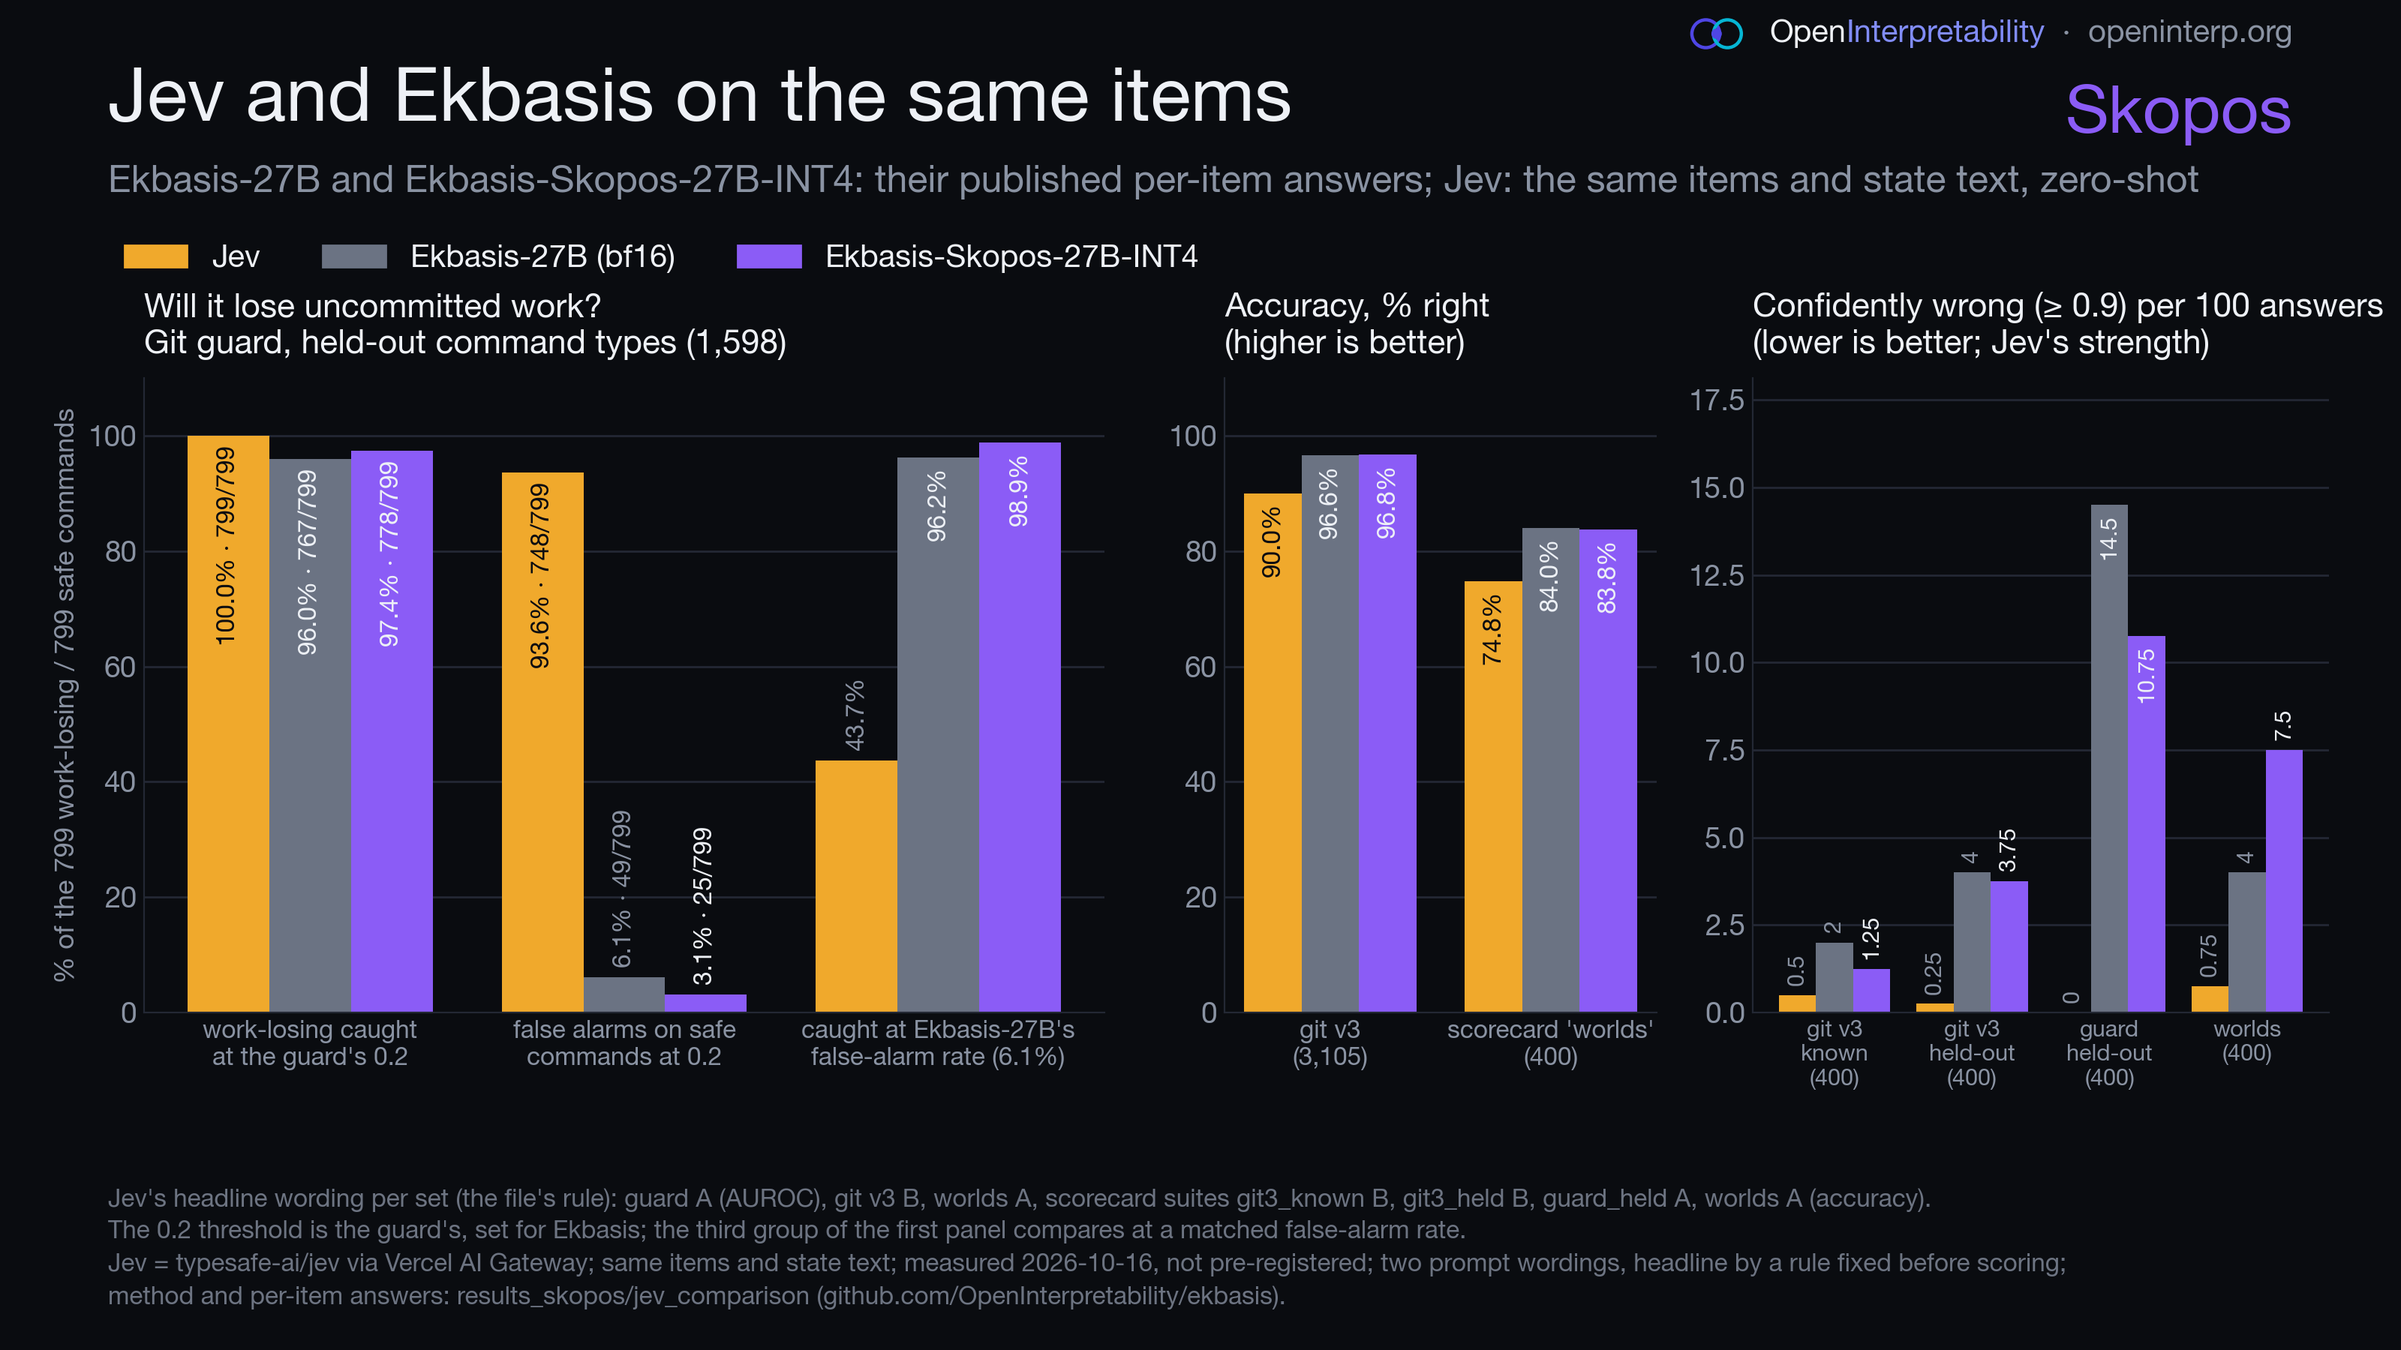
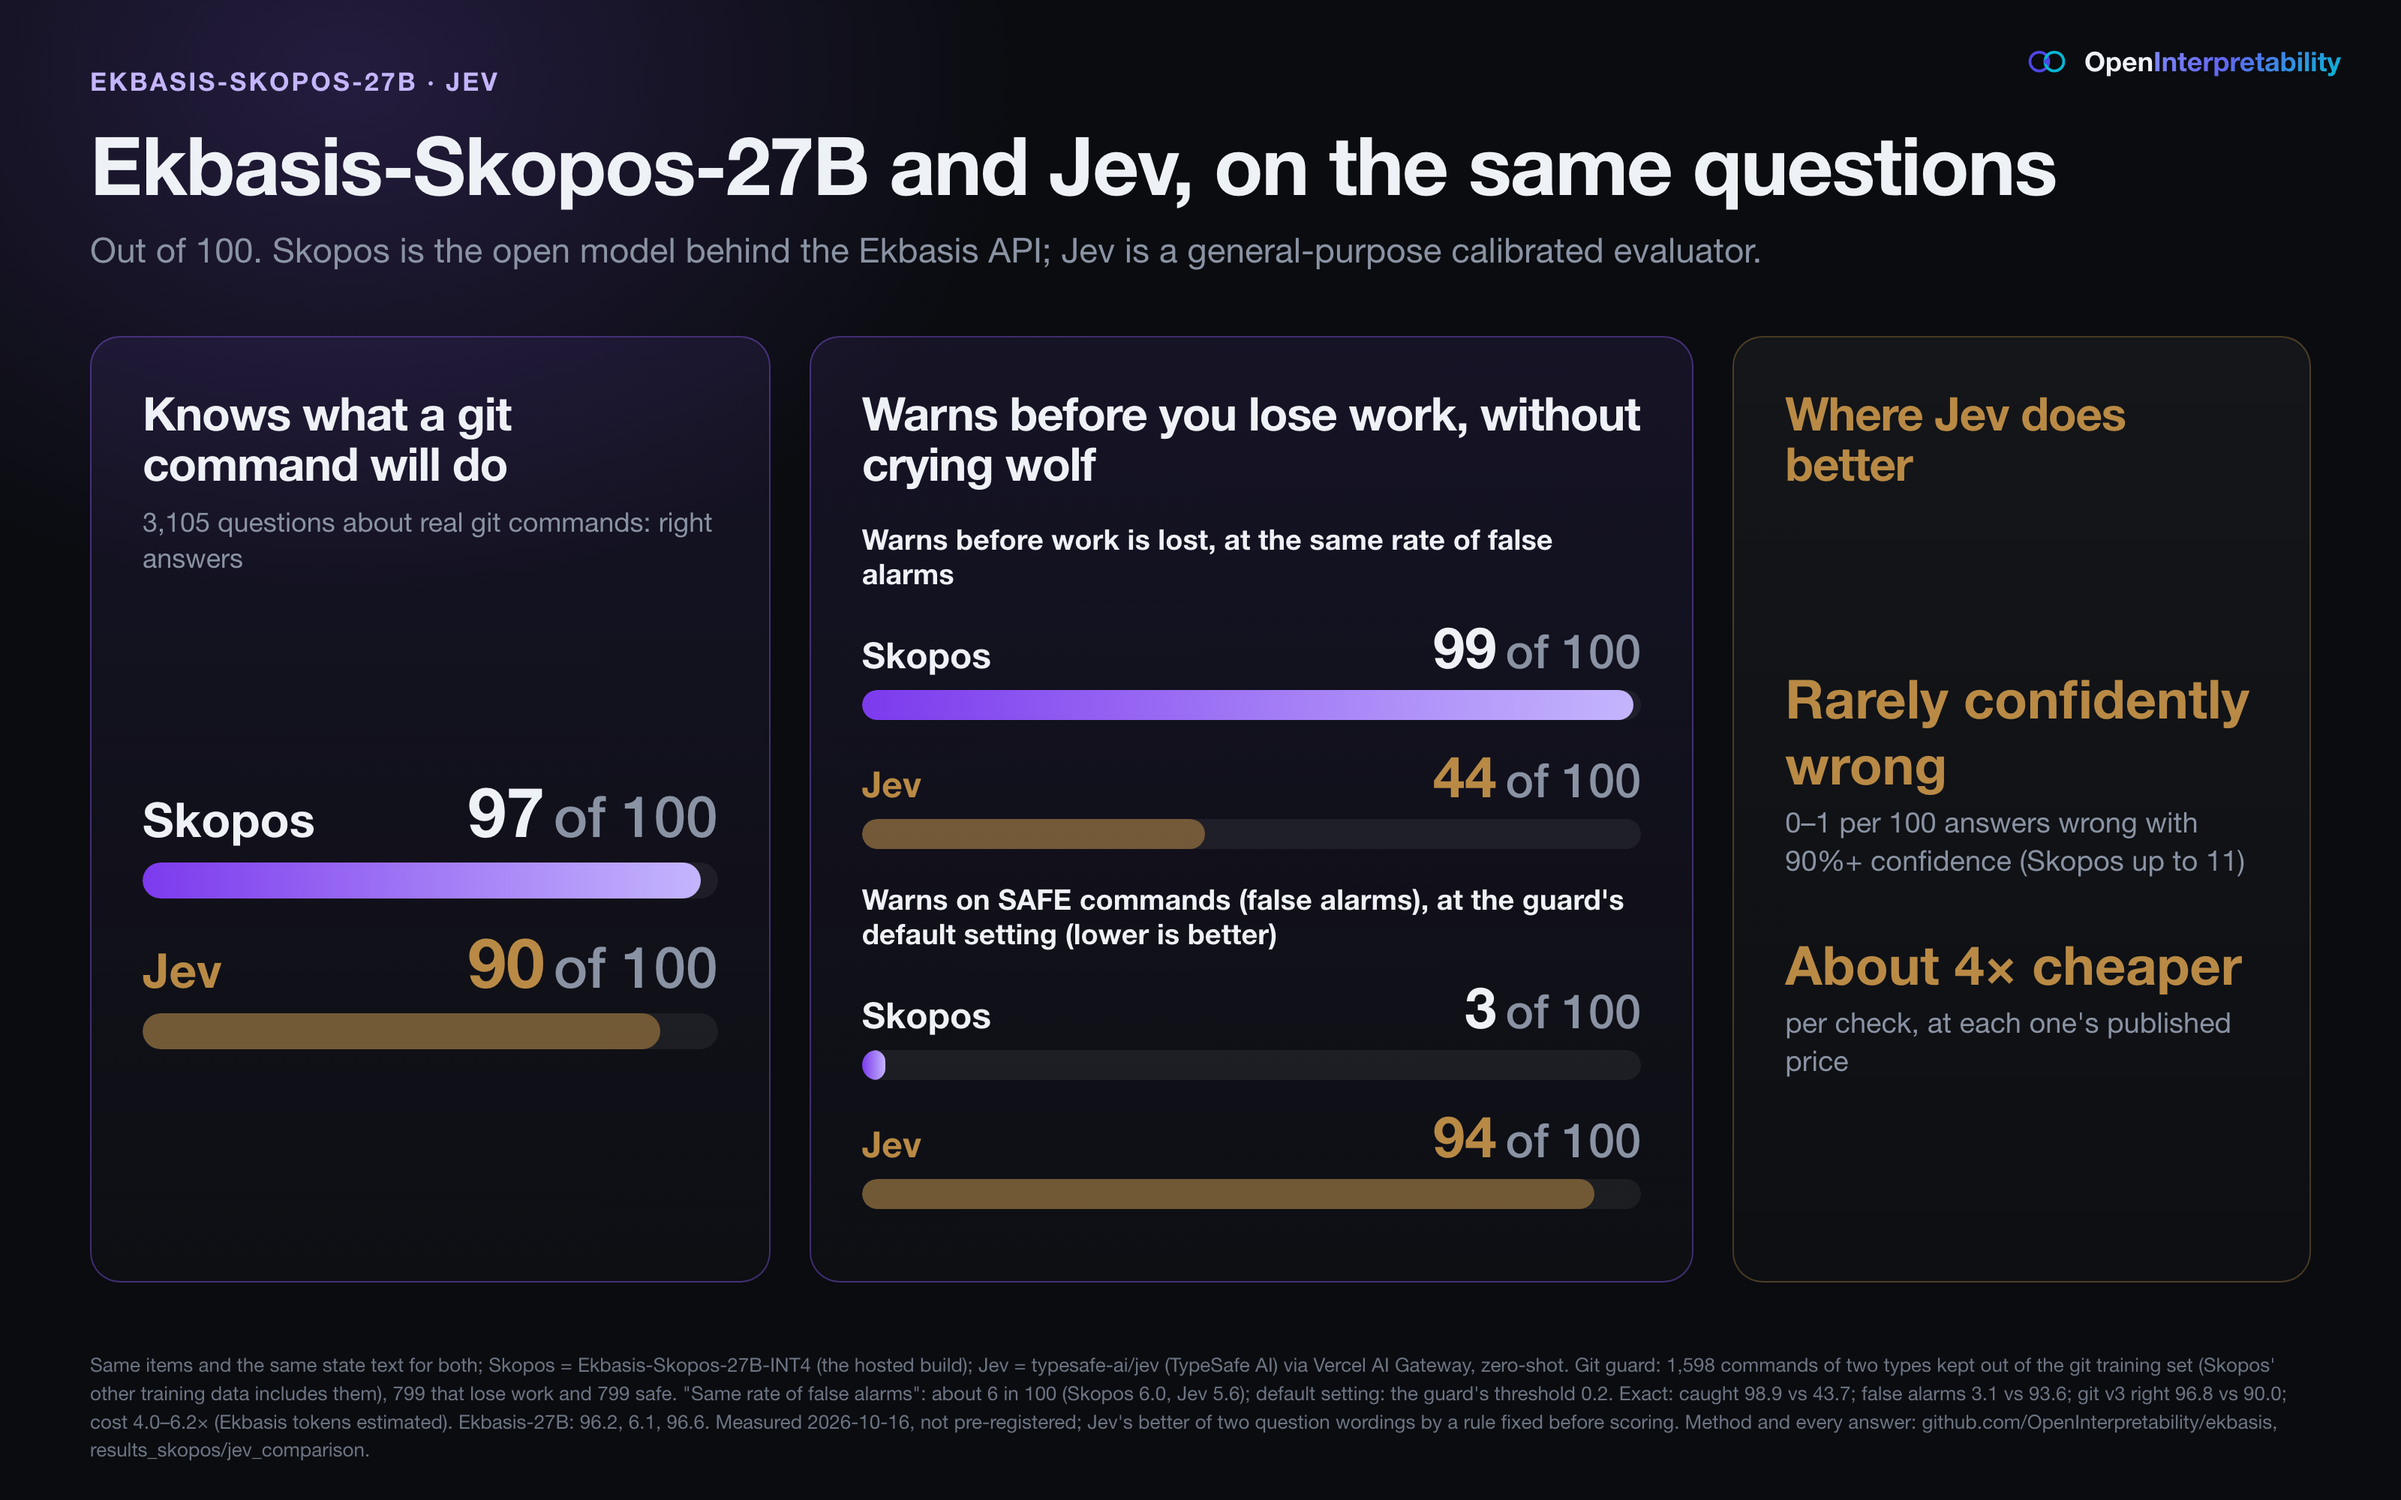
Skopos page: A7 result (calibrated cuts never-trained confident errors by about two-thirds; calibrated vs calibrated Skopos still +0.52 per 100) and the clearer Jev chart

diff --git a/lib/skopos-data.ts b/lib/skopos-data.ts
@@ -1,5 +1,5 @@
 /** Ekbasis-Skopos-27B launch data — GENERATED by release_skopos/site/gen_skopos_site.py from the model card's
- *  values (card_values.json, card sha256 286637d14c9c…, generated 2026-10-16T14:35:49+00:00). Do not edit by hand. */
+ *  values (card_values.json, card sha256 a4e6e6b00025…, generated 2026-10-16T15:28:24+00:00). Do not edit by hand. */
 
 export const skopos = {
   "name": "Ekbasis-Skopos-27B",
@@ -473,7 +473,7 @@ export const scorecard = {
     ]
   ],
   "neverTrained": {
-    "caption": "The regression a hosted user should know about — never-trained world families of the published confident-errors study: wrong at confidence ≥ 0.9 per 100, measured on the bf16 (served), not INT4: Skopos 4.49 against Ekbasis-27B 3.75 on 5,364 items (+0.75 [+0.28, +1.23]; on the 2,700 answers the actions change +1.19 [+0.52, +1.89]); ECE 0.071 against 0.063 (+0.009 [+0.003, +0.015]). Measured on the bf16 builds; the INT4 builds' values replace these when measured."
+    "caption": "The regression a hosted user should know about — never-trained world families of the published confident-errors study: wrong at confidence ≥ 0.9 per 100, measured on the INT4 (served), both builds (PREREG_ADDENDUM A7): raw answers, Skopos 4.75 against Ekbasis-27B 3.65 on 5,364 items (+1.10 [+0.65, +1.57]). Reading the calibrated field (T 1.67 and 1.55) cuts them to 1.62 and 1.10: Skopos calibrated is below Ekbasis-27B raw, and calibrated against calibrated Skopos still has +0.52 per 100 [+0.26, +0.78]; calibrated ECE is level (0.021 against 0.022). A7 on bf16 not run (the evaluation machine was retired)."
   },
   "calCaption": "Confident errors and calibration on 2,482 items, served through the System One API, both INT4 (from generators Skopos was trained on: its home ground).",
   "calColumns": [
@@ -540,7 +540,7 @@ export const scorecard = {
 
 export const skoposLimits = [
   "Everything in Ekbasis-27B's limits applies, including confident errors in the world families it was trained on.",
-  "More confident errors in unfamiliar worlds: on the 5,364 items of never-trained world families of the published confident-errors set (served bf16), Skopos is wrong slightly less often than Ekbasis-27B (14.26% against 14.93%), but more often with confidence 0.9 or more: 4.49 against 3.75 wrong answers per 100 (+0.75 [+0.28, +1.23]; on the answers the actions change +1.19 [+0.52, +1.89]), and it is worse calibrated there (ECE 0.071 against 0.063, +0.009 [+0.003, +0.015]). The selection of this version had no criterion on confident errors in these families (Training). In unfamiliar domains, let it look when unsure (simulate) and act on a confident answer only at a stricter threshold than in familiar ones; whether the calibrated field reduces these errors there has not been measured.",
+  "More confident errors in unfamiliar worlds: on the 5,364 items of never-trained world families of the published confident-errors set (served bf16), Skopos is wrong slightly less often than Ekbasis-27B (14.26% against 14.93%), but more often with confidence 0.9 or more: 4.49 against 3.75 wrong answers per 100 (+0.75 [+0.28, +1.23]; on the answers the actions change +1.19 [+0.52, +1.89]), and it is worse calibrated there (ECE 0.071 against 0.063, +0.009 [+0.003, +0.015]). The selection of this version had no criterion on confident errors in these families (Training). In unfamiliar domains, let it look when unsure (simulate) and act on a confident answer only at a stricter threshold than in familiar ones. In never-trained world families, reading calibrated cuts Skopos' confidently wrong answers by about two-thirds (INT4: 4.75 → 1.62 per 100), to fewer than Ekbasis-27B's raw answers (3.65). Calibrated against calibrated, Skopos still has about 0.5 more per 100 answers there than Ekbasis-27B (1.62 vs 1.10, +0.52 [+0.26, +0.78]); ECE is level (0.021 vs 0.022). Measured on the INT4 builds as PREREG_ADDENDUM.md A7 pre-registered; A7 on bf16 was not run (the evaluation machine was retired).",
   "Paraphrased wording (pre-launch P8): on 120 short checks in paraphrased wording, Skopos is right on 113 against Ekbasis-27B's 117 (−3.3 points [−6.7, −0.8]; exact McNemar p = 0.125), 2 of the 4 items it alone gets wrong in a never-trained family: the release blocker declared in the Pre-launch evaluation.",
   "In-distribution and selected gains: the largest gains (executed factory scenarios, real git sequences, agent sessions) are on sets built by the same generators as its training rows, and three of them (fac_val, git_long, git_long_val) are the sets whose pre-registered rules chose this version over its siblings (R1 → R2 → R4): selection adds to the in-distribution advantage. The independent evidence is smaller: the fresh never-trained families (+1.6 points, trainer readout) and the neutral agent turns (AUROC level with Ekbasis-27B). The never-trained families are never in training rows; the first Skopos' λ was chosen on a validation set that includes these families (cards, machines, tally, timers and track), and each stage's checkpoint rule was the best step on fval_git3, which holds Track and Tally items and is part of the calibration fit set (both stages kept their last step: the first Skopos' training run, v49f, saved only step 900, and Skopos' best was its last, step 1,200; training/skopos/README.md).",
   "\"Held-out\" git command types: the release protocol's held-out types (git rebase <branch> and git restore --source=HEAD~1 <file>) are held out of the git sandbox's training rows, but Skopos' shell and git factory rows contain both, in other repositories (the overlap audit's note): read the held-out rows as a weaker test for Skopos than for Ekbasis-27B.",
@@ -680,6 +680,6 @@ export const skoposBanner = {
   "results": [
     "The git guard raises fewer false alarms on command types held out of the git sandbox's training rows: 26 of 799 instead of 49 (−2.9 points, 95% CI [−4.1, −1.6], p < 0.001), and flags as many work-losing commands; on known types the differences are within noise.",
     "World families it never saw: 83.4% instead of 81.8% on the 3,014 answers the actions change among 5,385 fresh items (+1.6 points, 95% CI [+0.7, +2.5]).",
-    "More confident errors in unfamiliar worlds: on the 5,364 items of never-trained world families of the published confident-errors set (served bf16), Skopos is wrong slightly less often than Ekbasis-27B (14.26% against 14.93%), but more often with confidence 0.9 or more: 4.49 against 3.75 wrong answers per 100 (+0.75 [+0.28, +1.23]; on the answers the actions change +1.19 [+0.52, +1.89]), and it is worse calibrated there (ECE 0.071 against 0.063, +0.009 [+0.003, +0.015]). The selection of this version had no criterion on confident errors in these families (Training). In unfamiliar domains, let it look when unsure (simulate) and act on a confident answer only at a stricter threshold than in familiar ones; whether the calibrated field reduces these errors there has not been measured."
+    "More confident errors in unfamiliar worlds: on the 5,364 items of never-trained world families of the published confident-errors set (served bf16), Skopos is wrong slightly less often than Ekbasis-27B (14.26% against 14.93%), but more often with confidence 0.9 or more: 4.49 against 3.75 wrong answers per 100 (+0.75 [+0.28, +1.23]; on the answers the actions change +1.19 [+0.52, +1.89]), and it is worse calibrated there (ECE 0.071 against 0.063, +0.009 [+0.003, +0.015]). The selection of this version had no criterion on confident errors in these families (Training). In unfamiliar domains, let it look when unsure (simulate) and act on a confident answer only at a stricter threshold than in familiar ones. In never-trained world families, reading calibrated cuts Skopos' confidently wrong answers by about two-thirds (INT4: 4.75 → 1.62 per 100), to fewer than Ekbasis-27B's raw answers (3.65). Calibrated against calibrated, Skopos still has about 0.5 more per 100 answers there than Ekbasis-27B (1.62 vs 1.10, +0.52 [+0.26, +0.78]); ECE is level (0.021 vs 0.022). Measured on the INT4 builds as PREREG_ADDENDUM.md A7 pre-registered; A7 on bf16 was not run (the evaluation machine was retired)."
   ]
 }
